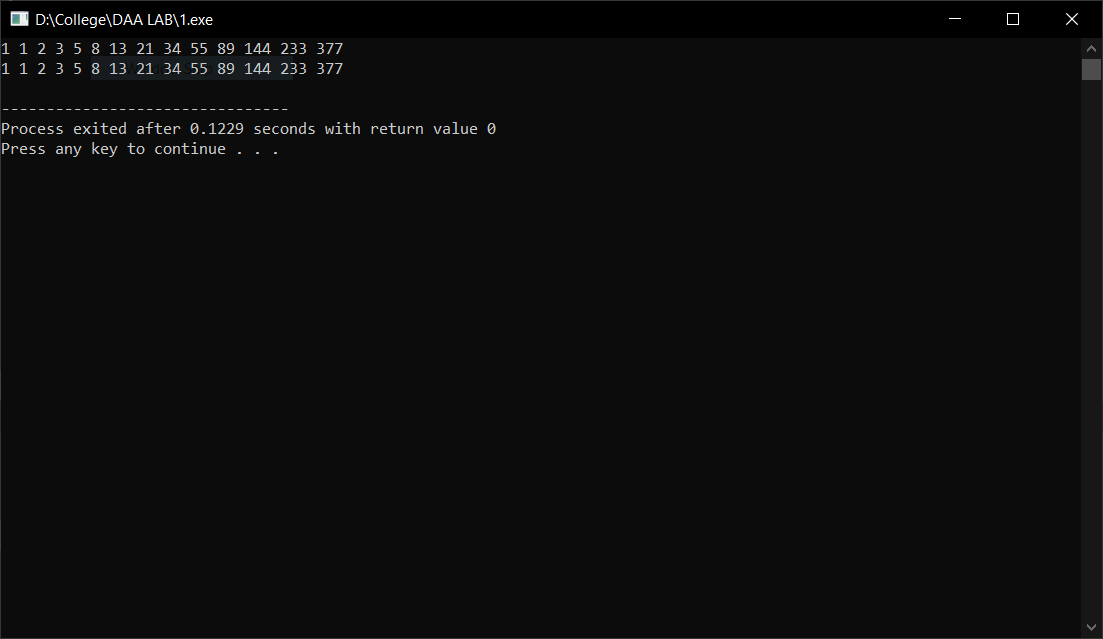
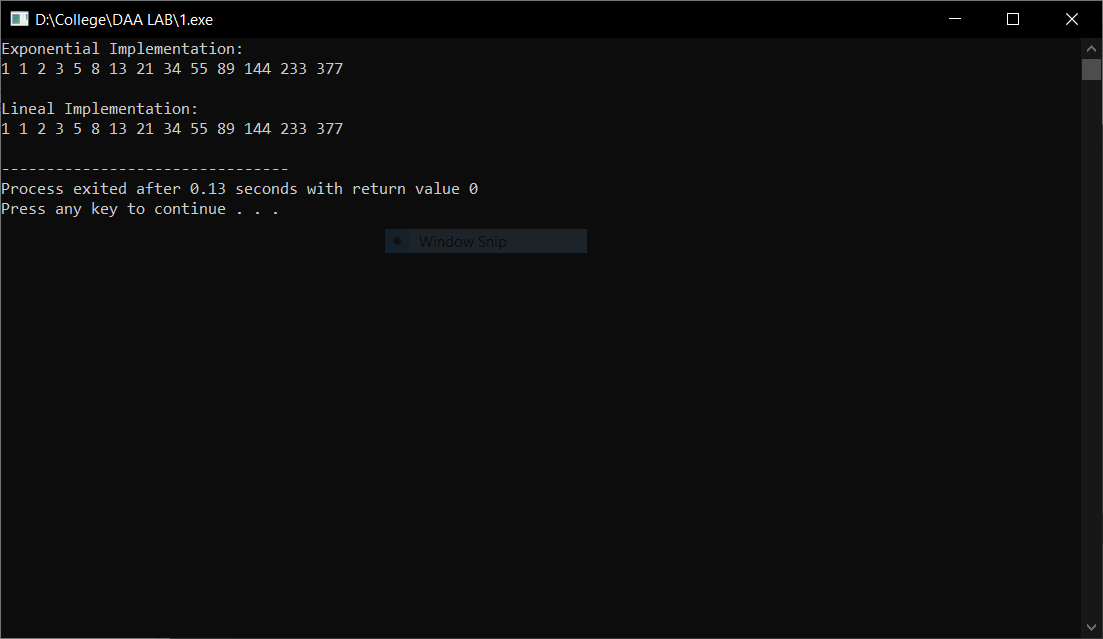
done2

diff --git a/code/1.cpp b/code/1.cpp
@@ -23,12 +23,13 @@ double fibonaccilinear(int n){
 int main(){
 	
 	int i;
-	
+	cout << "Exponential Implementation: \n";
 	for (i=1; i<15; i++){
 		cout << fibonacciexpo(i) << " ";
 	}
 	cout << "\n";
 	
+	cout << "\nLineal Implementation: \n";
 	for (i=1; i<15; i++){
 		cout << fibonaccilinear(i) << " ";
 	}
